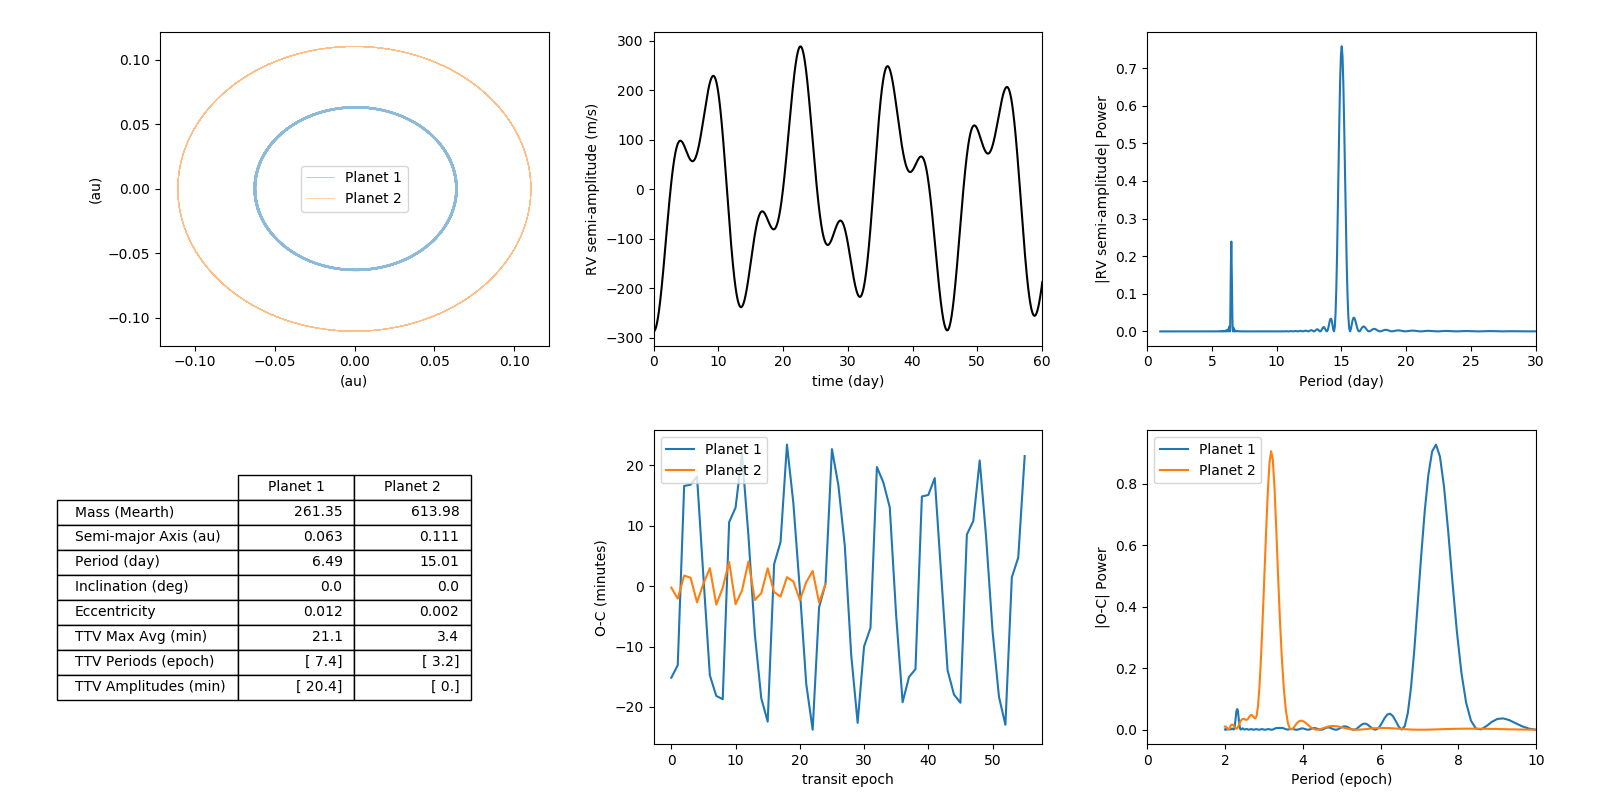
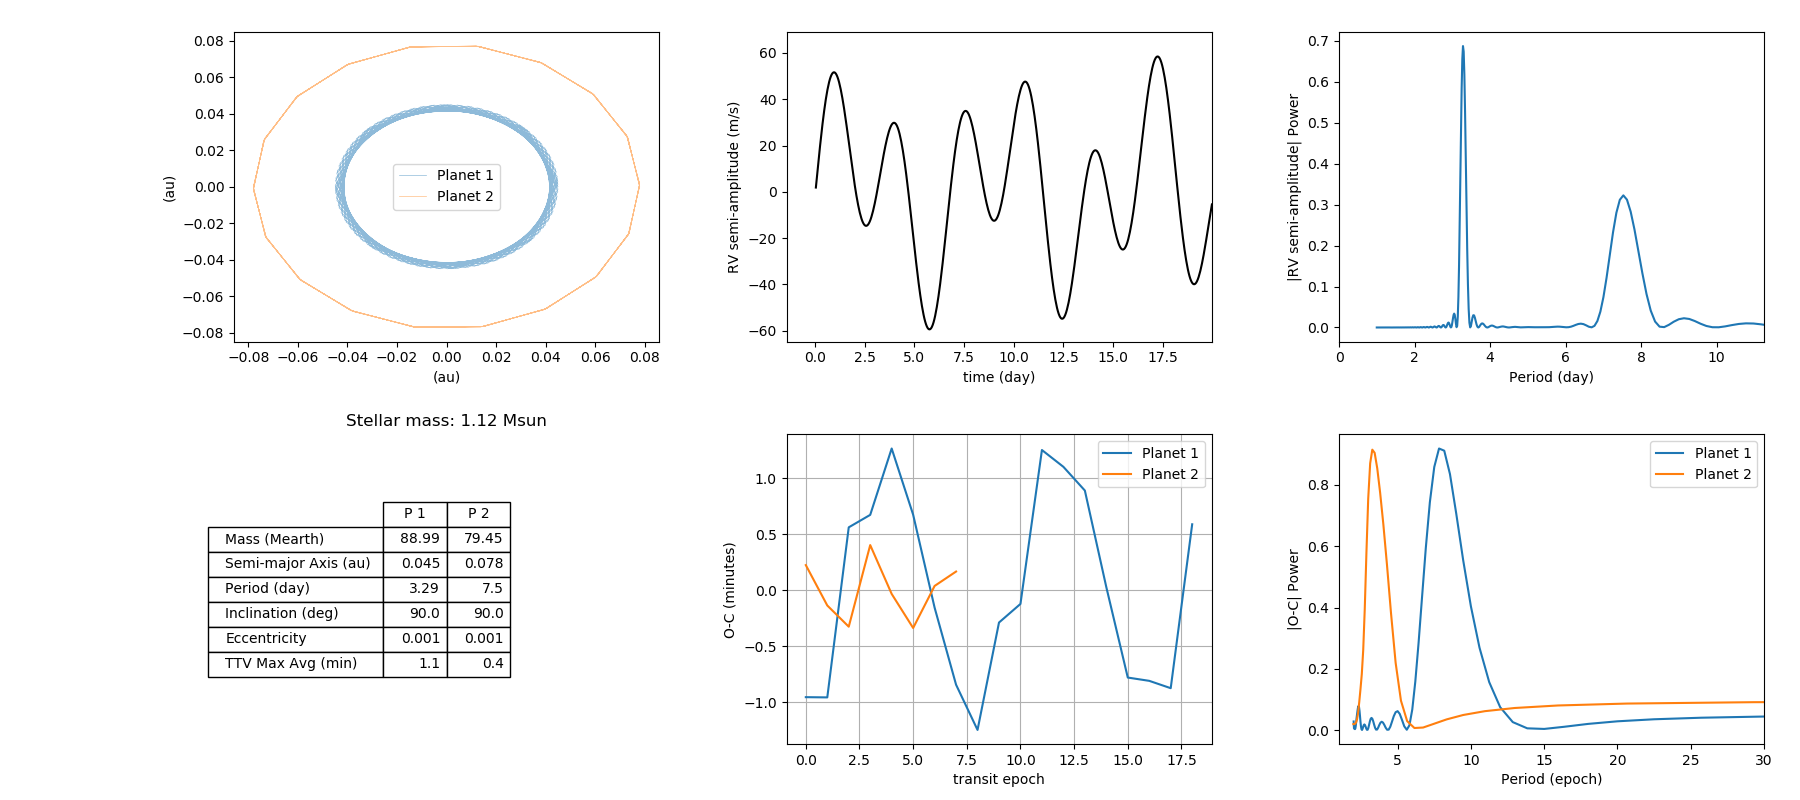
new retrieval plots

diff --git a/nested_tess.py b/nested_tess.py
@@ -1,4 +1,5 @@
 import matplotlib.pyplot as plt
+from matplotlib.colors import LinearSegmentedColormap
 import numpy as np
 import pickle 
 import corner 
@@ -11,7 +12,7 @@ if not os.path.exists("chains"): os.mkdir("chains")
 from nbody.simulation import randomize, generate, integrate, analyze, report
 from nbody.tools import mjup,msun,mearth,G,au,rearth,sa
 
-from nested_nbody import lfit, get_ttv, nlfit, shift_align
+from nested_nbody import lfit, get_ttv, nlfit, shift_align, get_stats
 
 if __name__ == "__main__":
     
@@ -36,9 +37,7 @@ if __name__ == "__main__":
     # perform nested sampling linear fit to transit data    
     lstats, lposteriors = lfit(epochs,ttdata,err, 
                 bounds=[lcdata['p']-1/24,lcdata['p']+1/24,lcdata['t0']-1./24,lcdata['t0']+1./24 ])
-    print("linear fit complete ")
-    import pdb; pdb.set_trace()
-
+    
     # estimate priors
     bounds = []
     objects[1]['P'] = lstats['marginals'][0]['median']
@@ -55,10 +54,12 @@ if __name__ == "__main__":
 
     # non linear fit with priors constrained from linear ephem fit 
     newobj, posteriors, stats = nlfit( epochs,ttdata,err, objects, bounds )
+    stats['marginals'] = get_stats(posteriors,20,posteriors[:,5]<8)
 
     # generate the best fit model 
-    ndays = np.round( 2*(max(epochs)+1)*newobj[1]['P'] ).astype(int)
+    ndays = np.round( (max(epochs)+1)*newobj[1]['P'] ).astype(int)
     epoch,ttvfit = get_ttv(newobj, ndays)
+
     ttvfit = shift_align(ocdata,ttvfit,epochs,err)
 
     # compute limits
@@ -130,29 +131,36 @@ if __name__ == "__main__":
         return np.max(models,0),np.min(models,0)
     
     upper3, lower3 = limits('3sigma')
+    
 
-    mask = posteriors[:,1] < np.median(posteriors[:,1])
-    #posteriors[:,2] *= msun/mjup
-    f = corner.corner(posteriors[mask,2:], 
-                    labels=['Period (day)','t0','Mass 2 (msun)', 'Period 2 (day)'],
+    colors = [ (1, 0, 0), (0,1,0), (0, 0, 0)] 
+    cm = LinearSegmentedColormap.from_list("mylist", colors, N=3)
+    posteriors[:,4]*=msun/mearth
+    f = corner(posteriors[:,2:], 
+                    labels=['Period (day)','t0','Mass 2 (Earth)', 'Period 2 (day)'],
                     bins=int(np.sqrt(posteriors.shape[0])), 
-                    range=[
-                        ( stats['marginals'][0]['5sigma'][0], stats['marginals'][0]['5sigma'][1]),
-                        ( stats['marginals'][1]['5sigma'][0], stats['marginals'][1]['5sigma'][1]),
-                        ( max(0,stats['marginals'][2]['median']-stats['marginals'][2]['sigma']*3),stats['marginals'][2]['median']+stats['marginals'][2]['sigma']*3),
-                        ( stats['marginals'][3]['median']-stats['marginals'][3]['sigma']*3,stats['marginals'][3]['median']+stats['marginals'][3]['sigma']*3),
-                    ],
-                    plot_contours=False, 
-                    plot_density=False)
+                    #range=[
+                    #    ( stats['marginals'][0]['5sigma'][0], stats['marginals'][0]['5sigma'][1]),
+                    #    ( stats['marginals'][1]['5sigma'][0], stats['marginals'][1]['5sigma'][1]),
+                    #    ( stats['marginals'][2]['5sigma'][0], stats['marginals'][2]['5sigma'][1]),
+                    #    ( stats['marginals'][3]['5sigma'][0], stats['marginals'][3]['5sigma'][1]),
+                    #],
+                    #truths=[lstats['marginals'][0]['median'], lstats['marginals'][1]['median'], stats['marginals'][2]['median'],stats['marginals'][2]['5sigma'][0] ],
+                    #no_fill_contours=True,
+                    truth_color='green',
+                    plot_contours=False,
+                    plot_density=False,
+                    data_kwargs={'c':posteriors[:,1],'vmin':np.percentile(posteriors[:,1],1),'vmax':np.percentile(posteriors[:,1],50),'cmap':cm},
+                    )
+    posteriors[:,4]/=msun/mearth
     plt.show()
-
-    # TODO recompute o-c data with nl fit 
 
     # generate models between the uncertainties 
     f,ax = plt.subplots(1, figsize=(7,4))
     ax.errorbar(epochs,ocdata*24*60,yerr=err*24*60,ls='none',marker='o',label='Data',color='black')
+    #ax.plot(epochs, ttv_data['planets'][0]['ttv']*24*60,ls='--', label='Truth',color='green')
     ax.plot(epoch, ttvfit*24*60, label='Linear+Nbody ({:.1f})'.format(stats['global evidence']),color='red')
-    #ax.fill_between(epoch,24*60*upper3,24*60*lower3,alpha=0.1,label='Nbody 3 sigma',color='red')
+    ax.fill_between(epoch,24*60*upper3,24*60*lower3,alpha=0.1,label='Nbody 3 sigma',color='red')
     ax.axhline(ls='--',label='Linear ({:.1f})'.format(lstats['global evidence']))
     ax.legend(loc='best')
     ax.set_xlabel('Epochs')
@@ -161,6 +169,49 @@ if __name__ == "__main__":
     ax.grid(True)
     plt.show()
 
+    
+    f,ax = plt.subplots( 2,2, figsize=(7,4))
+    im = ax[1,0].scatter(posteriors[:,4]*msun/mearth,posteriors[:,5],s=3.0,alpha=0.25,c=posteriors[:,1],vmin=np.percentile(posteriors[:,1],1),vmax=np.percentile(posteriors[:,1],50),cmap=cm)
+    cbar = f.colorbar(im, ax=ax[1,0], orientation='vertical')
+    cbar.ax.set_ylabel('-2 * log likelihood', rotation=270)
+
+    ax[1,0].set_xlabel("Planet 2 Mass (Earth)")
+    ax[1,0].set_ylabel("Planet 2 Period (day)")
+    bins_mass = np.linspace( min(posteriors[:,4])*msun/mearth,max(posteriors[:,4])*msun/mearth,int(np.sqrt(posteriors.shape[0])) )
+    bins_per = np.linspace( min(posteriors[:,5]),max(posteriors[:,5]),2*int(np.sqrt(posteriors.shape[0])) )
+    ax[0,1].set_axis_off()
+    ax[1,1].set_xlabel("Planet 2 Period (day)")
+    ax[0,0].set_xlabel("Planet 2 Mass (Earth)")
+
+    ax[0,0].hist( posteriors[:,4]*msun/mearth, bins=bins_mass,alpha=0.5, histtype=u'step',color='black'  )
+    ax[1,1].hist( posteriors[:,5], bins=bins_per,alpha=0.5, histtype=u'step',color='black' )
+
+    mask = (posteriors[:,1] < np.percentile(posteriors[:,1],35)) & (posteriors[:,5] < 8)
+    ax[0,0].hist( posteriors[mask,4]*msun/mearth, bins=bins_mass,alpha=0.5, label="{:.1f}+-{:.1f}".format(np.mean(posteriors[mask,4]*msun/mearth),np.std(posteriors[mask,4]*msun/mearth)), histtype=u'step',color='red' )
+    ax[1,1].hist( posteriors[mask,5], bins=bins_per,alpha=0.5, label="{:.2f}+-{:.2e}".format(np.mean(posteriors[mask,5]),np.std(posteriors[mask,5])), histtype=u'step',color='red' )
+
+    mask = (posteriors[:,1] < np.percentile(posteriors[:,1],35)) & (posteriors[:,5] > 9)
+    ax[0,0].hist( posteriors[mask,4]*msun/mearth, bins=bins_mass,alpha=0.5, label="{:.1f}+-{:.1f}".format(np.mean(posteriors[mask,4]*msun/mearth),np.std(posteriors[mask,4]*msun/mearth)), histtype=u'step',color='green' )
+    ax[1,1].hist( posteriors[mask,5], bins=bins_per,alpha=0.5, label="{:.2f}+-{:.2e}".format(np.mean(posteriors[mask,5]),np.std(posteriors[mask,5])), histtype=u'step',color='green' )
+
+    ax[0,0].yaxis.set_visible(False)
+    ax[1,1].yaxis.set_visible(False)
+
+    ax[0,0].legend(loc='best')
+    ax[1,1].legend(loc='best')
+    plt.show()
+
+    # explore RV space and variability of signal 
+    #plt.plot((ttv_data['times'][1:]/objects[1]['P'])%1,ttv_data['RV']['signal'],'ko')
+    plt.xlabel("Phase")
+    plt.ylabel("RV Semi-amplitude (m/s)")
+    phase = ttv_data['times'][1:]/objects[1]['P']
+    for i in range(1,int(max((ttv_data['times'][1:]/objects[1]['P'])))):
+        mask = (phase < i) & (phase > i-1)
+        plt.plot(phase[mask]%1, ttv_data['RV']['signal'][mask])
+    plt.show()
+
+    # explore RV space of the second mode seen in the colored posterior plot 
 
     '''
     

diff --git a/nested_nbody.py b/nested_nbody.py
@@ -93,7 +93,7 @@ def nlfit( xx,yy,yerr, objects, bounds=[-1,1,-1,1,-1,1], myloss='soft_l1'):
             import pdb; pdb.set_trace()
             return -999 
 
-    pymultinest.run(myloglike, myprior, int(len(bounds)/2), resume=False,
+    pymultinest.run(myloglike, myprior, int(len(bounds)/2), resume=False,null_log_evidence=-14,
                     evidence_tolerance=0.5, sampling_efficiency=0.5, n_clustering_params=2,
                     n_live_points=200, verbose=True)
 
@@ -119,10 +119,12 @@ def shift_align(ttv_data,ttv,xx,yerr):
     i = np.argmax(chis)
     return np.roll(ttv, -i)
 
-def get_stats(posterior,percentile):
+def get_stats(posterior,percentile,custom_mask=-1):
     
     stats = []
-    mask = posterior[:,1] < np.percentile(posterior[:,1],percentile)
+    mask = (posterior[:,1] < np.percentile(posterior[:,1],percentile))
+    if np.sum(custom_mask) != -1:
+        mask = mask & custom_mask
 
     for i in range(2, posterior.shape[1]):
         b = list(zip(posterior[mask,0], posterior[mask,i]))
@@ -173,22 +175,24 @@ def get_stats(posterior,percentile):
 if __name__ == "__main__":
     
     # units: Msun, Days, au
-    objects = [
-        {'m':1.12},
-        {'m':0.28*mjup/msun, 'P':3.2888, 'inc':3.14159/2,'e':0 }, 
-        {'m':0.25*mjup/msun, 'P':7.5, 'inc':3.14159/2,'e':0 }, 
+    objects = [{'m': 1.12},
+        {'m': 0.00026718954248366013,
+        'inc': 1.570795,
+        'e': 0,
+        'P': 3.2887967652699728},
+        {'e': 0, 'inc': 1.570795, 'm': 0.00019516339869281047, 'P': 7.5}
     ]
 
     # create REBOUND simulation
     sim = generate(objects)
 
     # year long integrations, timestep = 1 hour
-    sim_data = integrate(sim, objects, 60, 60*24) 
+    sim_data = integrate(sim, objects, 45, 45*24) 
     
     # collect the analytics of interest from the simulation
     ttv_data = analyze(sim_data)
 
-    #report(ttv_data)
+    report(ttv_data)
 
     # simulate some observational data with noise 
     ttv = ttv_data['planets'][0]['ttv']

diff --git a/README.md b/README.md
@@ -76,7 +76,7 @@ ttv_data = {
 ```
 
 ## Estimating Planet Orbits
-The presence of additional planets or even moons in an exoplanet system can be inferred by measuring perturbations in the orbit of a transiting exoplanet. The gravitational influence from the campanion, even if it is non-transiting, can perturb the transiting planet in a manner characteristic to the orbit of the perturbing planet. The plot below shows how each parameter in a planetary system can impact our measured transit signal.
+The presence of additional planets or even moons in an exoplanet system can be inferred by measuring perturbations in the orbit of a transiting exoplanet. The gravitational influence from the campanion, even if it is non-transiting, can perturb the transiting planet in a manner characteristic to the orbit of the perturbing planet. The plot below shows how each parameter in a planetary system can impact our measured transit time.
 
 ![](figures/ttv_parameter_explore_v2.png)
 We use our N-body code to explore the parameter space governing our transit timing calculations to better assess which parameters have the most influence on the shape of the signal. After each simulation, a least-squares linear fit is calculated from the mid transit values in order to derive the ephemeris (now referred to as calculated). The linear ephemeris is then subtracted from the "observed" mid transit values and the residuals are plotted (O-C) indicating perturbations from a periodic orbit. The default transit parameters, shown in the table, are varied one by one within each subplot. 
@@ -120,7 +120,7 @@ if __name__ == "__main__":
     bounds = [5*mearth/msun, 2*mjup/msun, 6,9, 0.0,0.1]
 
     # use nested sampling retrieval 
-    newobj, posteriors = nested_nbody( epochs,ttv,err, objects, bounds )
+    newobj, posteriors, stats = nlfit( epochs,ttdata,err, objects, bounds )
 ```
 Posteriors from the TTV retrieval will look something like this: 
 ![](figures/nested_nbody_posteriors.png)
@@ -139,5 +139,5 @@ If you use any of these algorithms in your work please include Kyle A. Pearson a
 
 ## Future updates
 - implement RV fitting to reduce degeneracies
-- include multiple O-C signals for transiting multiplanet systems
+- include multiple O-C signals for simulatenous retrieval of planet 1 + 2 mass
 - use NN or clustering technique to estimate priors from simulation archive
